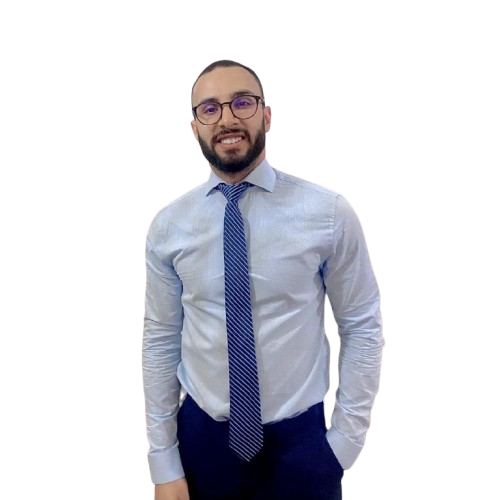
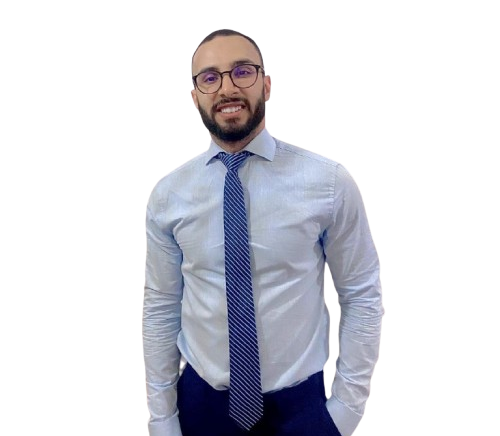
Initial commit or your commit message

diff --git a/src/Components/Intro/Intro.css b/src/Components/Intro/Intro.css
@@ -164,9 +164,9 @@
     }
   
     .i-right>:nth-child(3) {
-      transform: scale(0.5);
-      left: -12rem;
-      top: -23rem;
+      transform: scale(1.5);
+      left: -1rem;
+      top: -1rem;
     }
   
     .i-right .blur {
